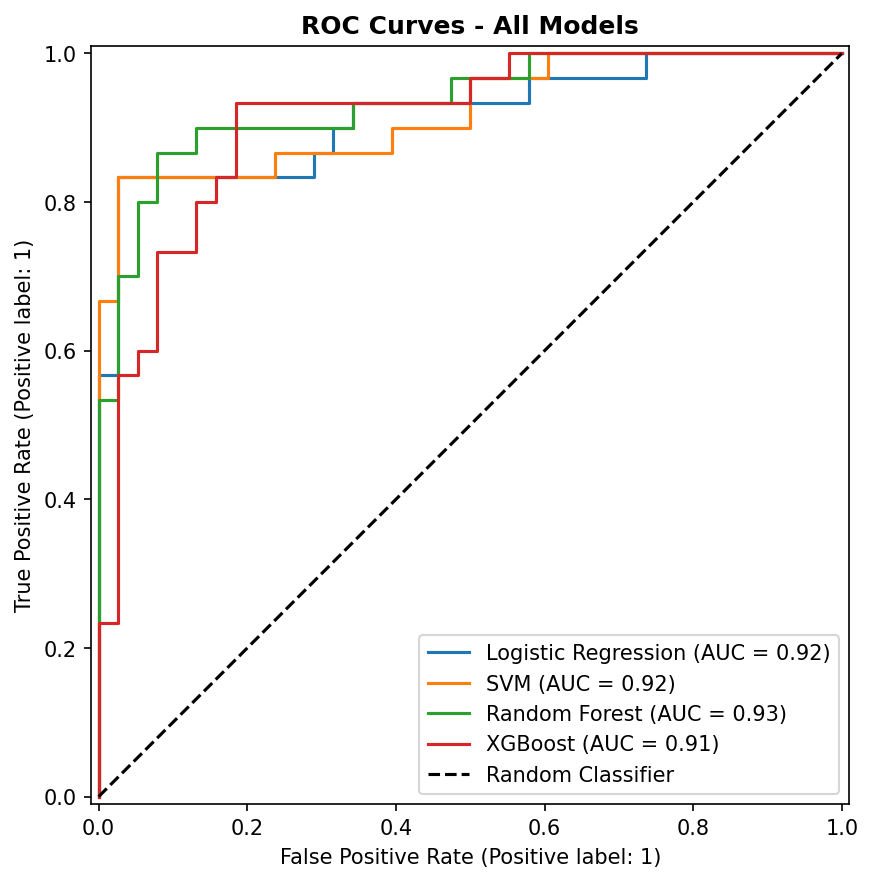
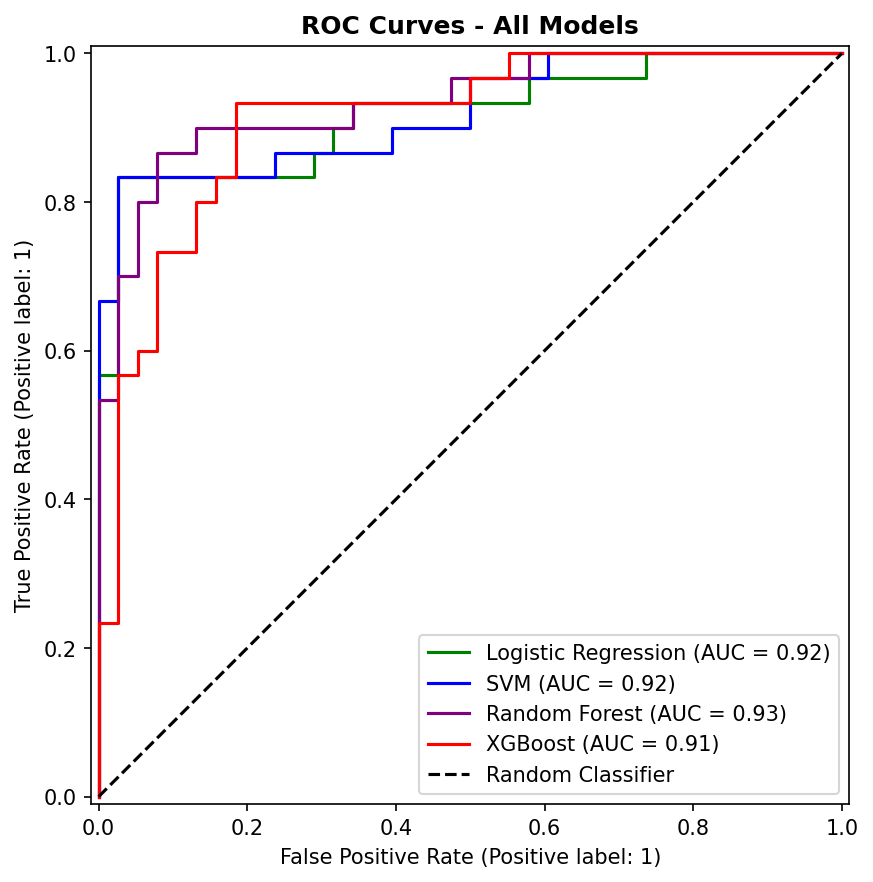
Complete

Changed region(s): [[0.0928, 0.0612, 0.7423, 0.8878], [0.4948, 0.7347, 0.5258, 0.8571]]

diff --git a/main.py b/main.py
@@ -423,10 +423,10 @@ print("\n[4.6] Saving Model Comparison plot as 05_model_comparison.png..... Comp
 # ROC Curves
 fig, ax = plt.subplots(figsize=(8, 6))
 
-RocCurveDisplay.from_estimator(log_reg_model,  X_test_scaled, y_test, ax=ax, name="Logistic Regression")
-RocCurveDisplay.from_estimator(svm_model,  X_test_scaled, y_test, ax=ax, name="SVM")
-RocCurveDisplay.from_estimator(rand_for_model, X_test_raw, y_test, ax=ax, name="Random Forest")
-RocCurveDisplay.from_estimator(xgb_model, X_test_raw, y_test, ax=ax, name="XGBoost")
+RocCurveDisplay.from_estimator(log_reg_model,  X_test_scaled, y_test, ax=ax, color="green", name="Logistic Regression")
+RocCurveDisplay.from_estimator(svm_model,  X_test_scaled, y_test, ax=ax, color="blue", name="SVM")
+RocCurveDisplay.from_estimator(rand_for_model, X_test_raw, y_test, ax=ax, color="purple", name="Random Forest")
+RocCurveDisplay.from_estimator(xgb_model, X_test_raw, y_test, ax=ax, color="red", name="XGBoost")
 
 ax.plot([0, 1], [0, 1], "k--", label="Random Classifier")
 ax.set_title("ROC Curves - All Models", fontweight="bold", fontsize=12)
@@ -534,7 +534,7 @@ fig, axes = plt.subplots(1, 2, figsize=(14, 5))
 fpr, tpr, thresholds_roc = roc_curve(y_test, rand_for_prob)
 auc_score = roc_auc_score(y_test, rand_for_prob)
 
-axes[0].plot(fpr, tpr, color="red", lw=2,
+axes[0].plot(fpr, tpr, color="purple", lw=2,
               label=f"Random Forest (AUC = {auc_score:.3f})")
 axes[0].scatter(fpr[np.argmin(np.abs(thresholds_roc - 0.44))],
                  tpr[np.argmin(np.abs(thresholds_roc - 0.44))],
